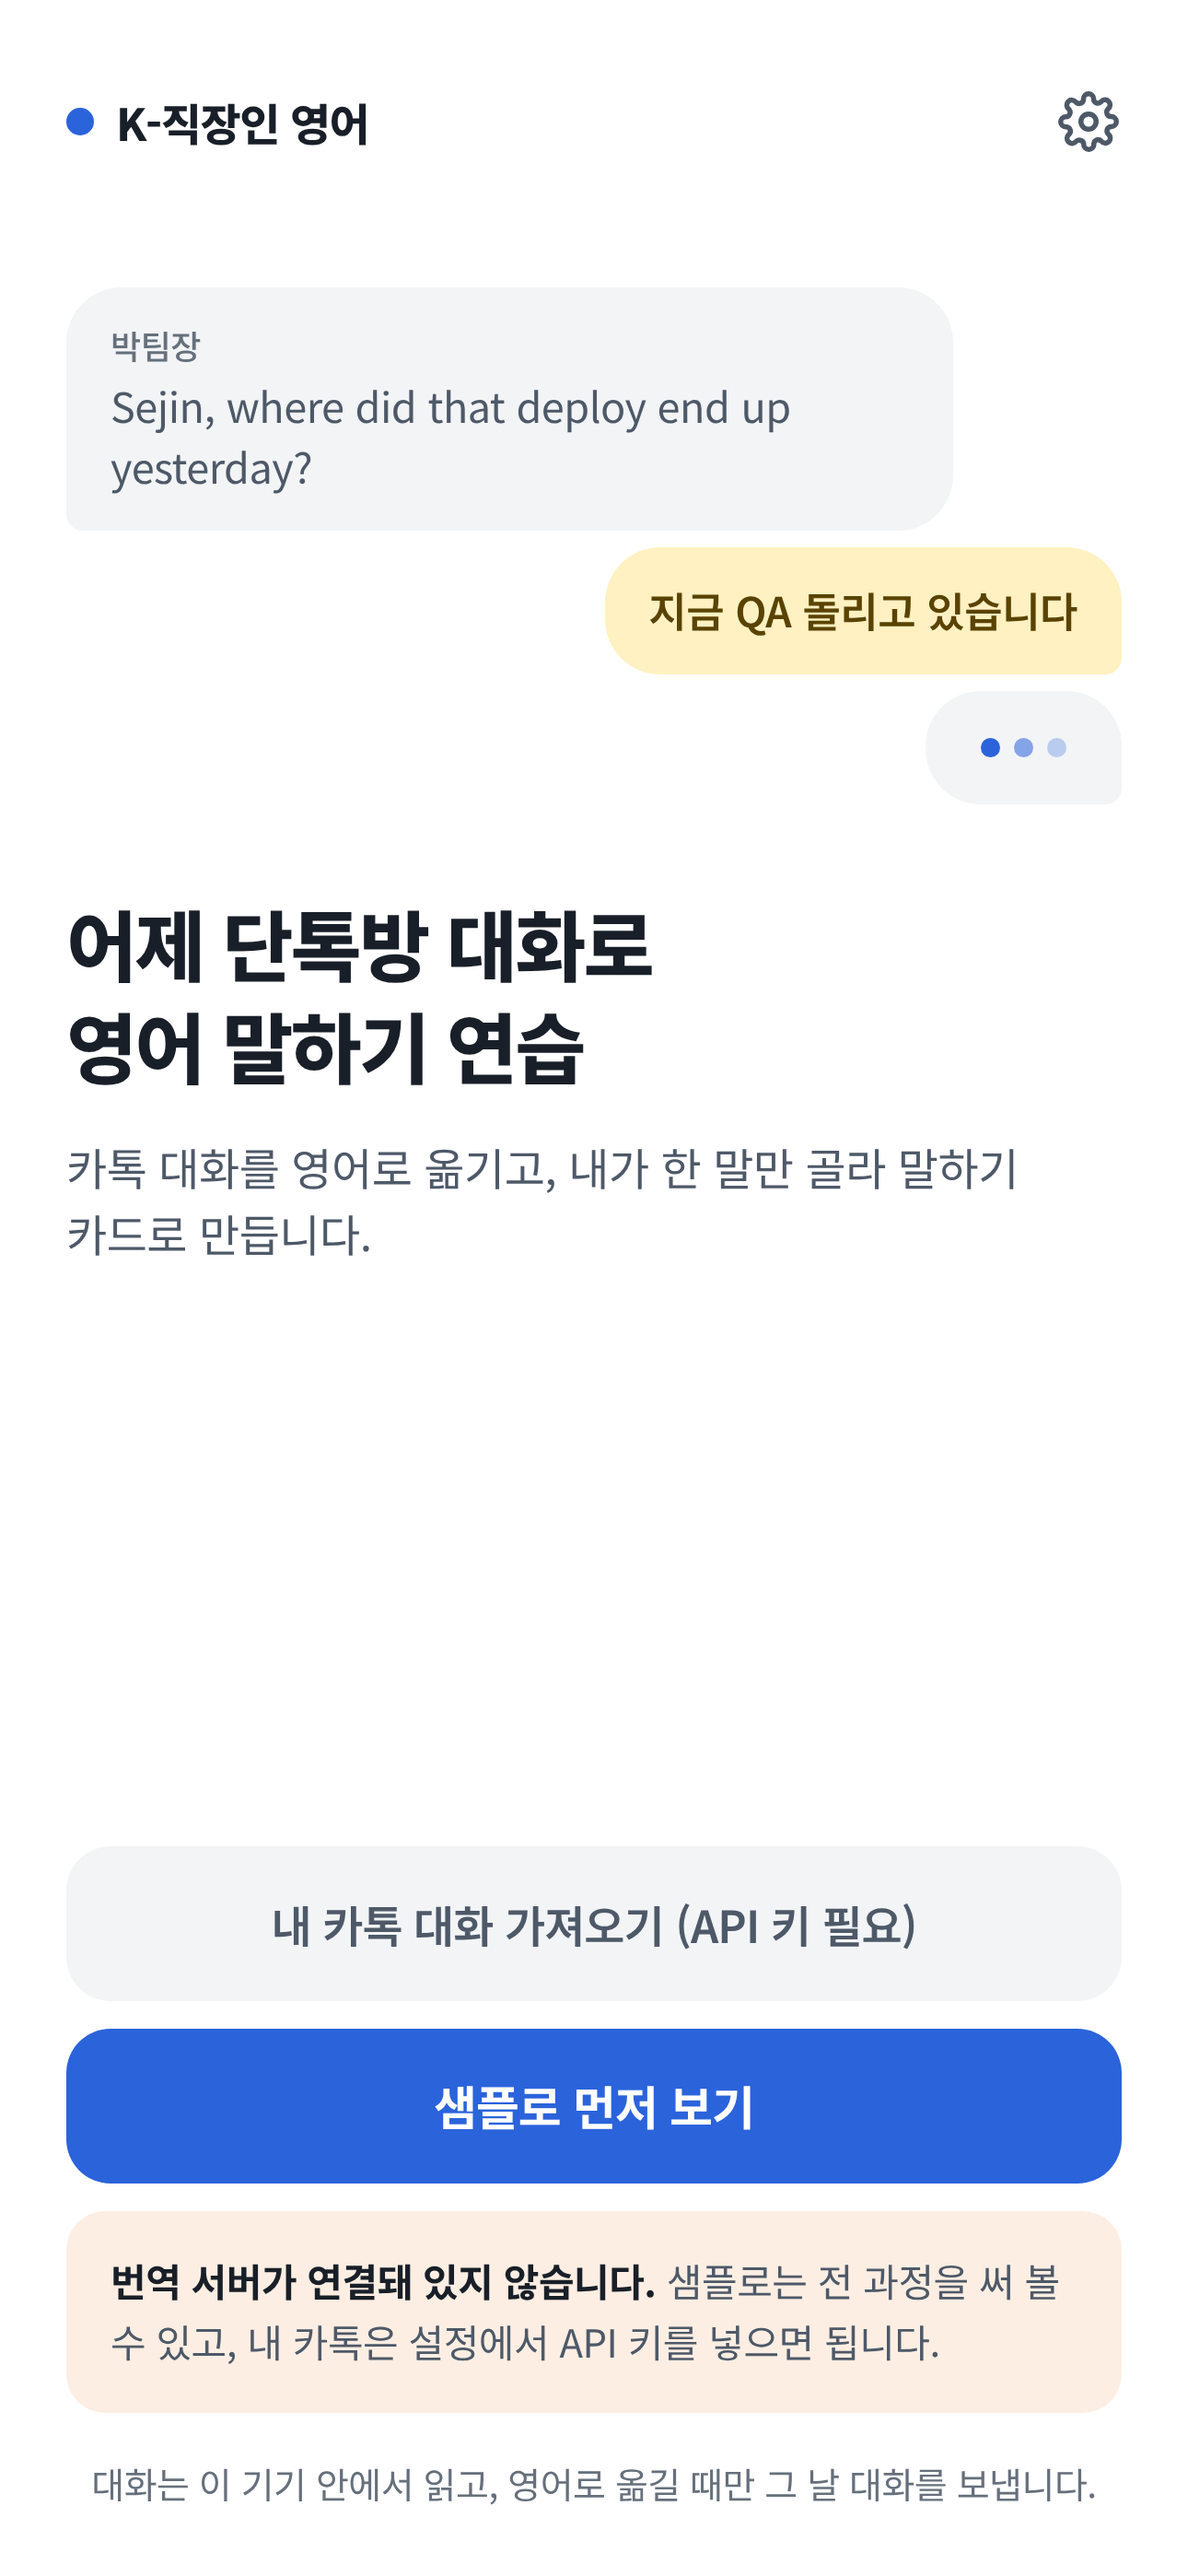
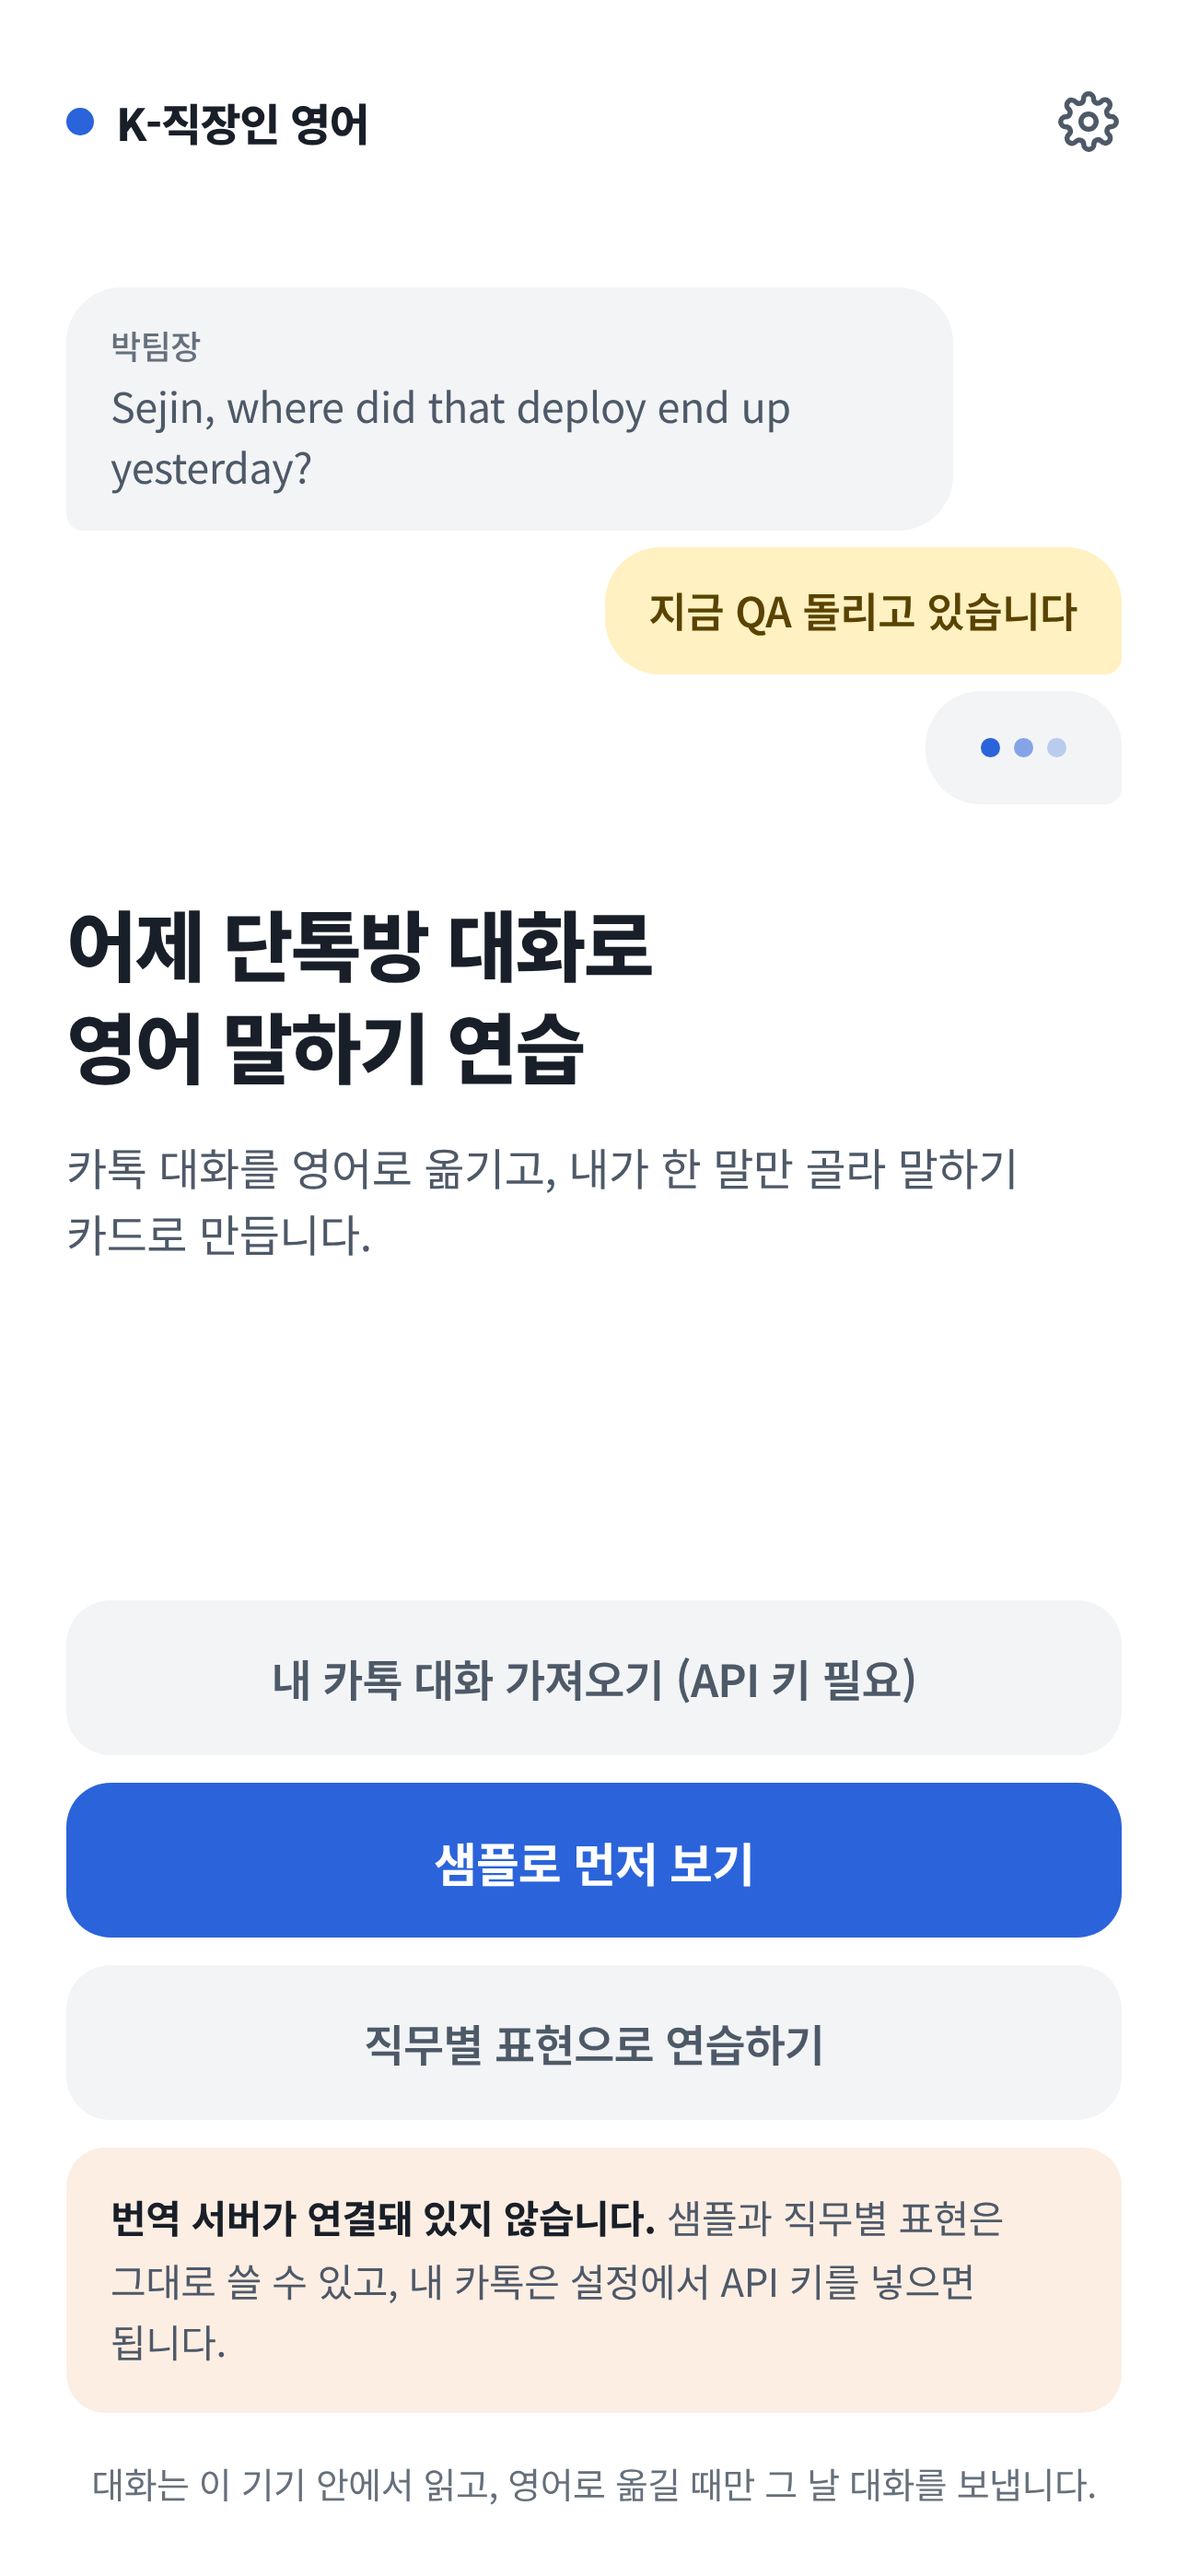
Bring back the job decks
Narrowing the app to its two features (D20) took the job decks off the
screen, and with no translation server the sample became the only thing a
visitor could do. Someone using the new build read that, fairly, as "it
does less than before". The decks were also the one path that runs with no
server, so they are what a tester or a Play reviewer can actually use.

They come back as a secondary button on the first screen, not as the
first-run job picker they used to be. Five decks of forty, ten cards a
session, what FSRS says is due first and unseen cards after. Each deck
keeps its own progress next to, not inside, the days of my chat: a job card
has no transcript and must never show up in one. The deck is rebuilt from
the shipped data on every open, so a corrected sentence in a later version
reaches people who already started it, progress kept.

The practice screen, scoring, speech and FSRS are shared; only where a card
comes from and what the done screen offers differ. job-decks.js joins the
service worker's shell so the decks work offline too.

Recorded as D26, with the PRD's "what dropping the decks cost" section kept
as history. The store description gains a paragraph for them.

Claude-Session: https://claude.ai/code/session_01DYwDMLoZ7g9WdK6CTYFrUa

diff --git a/app/js/main.js b/app/js/main.js
@@ -2,6 +2,7 @@ import { parseKakaoExport, groupByDay, cardsForSpeaker, speakersIn, guessRoomTyp
 import { newCardState, review, isDue, isLearned, dueLabel } from './srs.js';
 import { createSwipeDeck } from './swipe.js';
 import * as T from './translate.js';
+import { JOB_DECKS } from './job-decks.js';
 import { isNative, platform, onSharedChatExport, createRecogniser, createSpeaker } from './platform.js';
 
 /* The sample ships with English written in, so the whole loop — the transcript,
@@ -56,9 +57,11 @@ const STORE = 'rte.v4';
 const $ = (id) => document.getElementById(id);
 const esc = (s) => String(s).replace(/[&<>"]/g, (c) => ({ '&': '&amp;', '<': '&lt;', '>': '&gt;', '"': '&quot;' }[c]));
 
-let state = { me: null, roomTitle: null, days: [], usingSample: false };
+let state = { me: null, roomTitle: null, days: [], usingSample: false, jobs: {} };
 let parsed = null;
 let activeDay = null;
+// Set while practising a job deck instead of a day of my own chat.
+let activeJob = null;
 let deck = null;
 let sessionDone = 0;
 let sessionTotal = 0;
@@ -85,6 +88,7 @@ function load() {
 $('go-import').addEventListener('click', () => show('import'));
 $('go-resume').addEventListener('click', () => { renderDays(); show('days'); });
 $('home-sample').addEventListener('click', () => ingest(SAMPLE_TXT, true));
+$('go-jobs').addEventListener('click', () => { renderJobs(); show('jobs'); });
 
 /* The home screen has to tell the truth about what this copy of the app can
    do. On a build with no translation provider — the public link, before the
@@ -309,6 +313,76 @@ async function build(day) {
   renderTranscript();
 }
 
+/* ══════ job decks ══════ */
+/* Written cards for common office situations, shipped with the app (D26
+   reverses D20). They are the one thing that works with no translation
+   server at all, so a tester or a reviewer who never imports a chat still has
+   something real to practise. Each deck keeps its own FSRS state, separate
+   from the days of my chat: the two are different sources, and a job card is
+   never mixed into a day's transcript. */
+const JOB_SESSION = 10;
+
+function jobDeck(id) {
+  const src = JOB_DECKS.find((d) => d.id === id);
+  if (!state.jobs) state.jobs = {};
+  const kept = new Map(((state.jobs[id] && state.jobs[id].cards) || []).map((c) => [c.id, c.srs]));
+  // Rebuilt from the shipped data every time, so a corrected sentence in a new
+  // version reaches people who already started the deck, with their progress.
+  state.jobs[id] = {
+    cards: src.cards.map((c, i) => ({
+      id: `${id}:${i}`, ko: c.ko, en: c.en, situation: c.situation,
+      context: (c.context || []).map((x) => ({ speaker: x.speaker, ko: x.text })),
+      srs: kept.get(`${id}:${i}`) || newCardState(),
+    })),
+  };
+  return state.jobs[id];
+}
+
+function jobProgress(id) {
+  const cards = (state.jobs && state.jobs[id] && state.jobs[id].cards) || [];
+  const learned = cards.filter((c) => isLearned(c.srs)).length;
+  const started = cards.some((c) => c.srs.reps > 0);
+  return { learned, started };
+}
+
+function renderJobs() {
+  $('job-list').innerHTML = JOB_DECKS.map((d) => {
+    const { learned, started } = jobProgress(d.id);
+    const st = learned === d.cards.length ? 'done' : started ? 'ready' : 'new';
+    const label = st === 'done' ? '다 익힘' : started ? `${learned}장 익힘` : d.blurb;
+    return `<button class="day ${st}" data-job="${esc(d.id)}">
+      <span class="when"><b>${esc(d.name)}</b><span>${esc(label)}</span></span>
+      <span class="n">${d.cards.length}장</span>
+    </button>`;
+  }).join('');
+  for (const b of $('job-list').querySelectorAll('.day')) {
+    b.addEventListener('click', () => startJob(b.dataset.job));
+  }
+}
+
+$('back-jobs').addEventListener('click', () => { refreshHome(); show('home'); });
+
+/** Ten at a time: what FSRS says is due first, then cards not seen yet. */
+function startJob(id) {
+  const deckState = jobDeck(id);
+  activeJob = id;
+  activeDay = null;
+  const due = [], fresh = [];
+  deckState.cards.forEach((c, i) => {
+    if (c.srs.reps === 0) fresh.push({ job: id, i, review: false });
+    else if (isDue(c.srs)) due.push({ job: id, i, review: true });
+  });
+  const items = [...due, ...fresh].slice(0, JOB_SESSION);
+  save();
+  if (!items.length) { sessionDone = 0; finish(); return; }
+  sessionTotal = items.length;
+  sessionDone = 0;
+  show('practice');
+  deck.load(items);
+  updateProgress();
+  deck.focus();
+}
+
 /* ══════ transcript — the conversation, in English ══════ */
 /* This is the app's first feature standing on its own: yesterday's group chat,
    readable end to end in English. It is also where I say which one is me, which
@@ -387,6 +461,7 @@ $('go-practice').addEventListener('click', () => {
 deck = createSwipeDeck($('deck'), { render: renderCard, onSwipe, onEmpty: finish });
 
 function startSession() {
+  activeJob = null;
   const day = state.days[activeDay];
   const main = day.cards.map((_, i) => ({ d: activeDay, i, review: false }));
 
@@ -407,7 +482,7 @@ function startSession() {
   deck.focus();
 }
 
-const cardAt = (ref) => state.days[ref.d].cards[ref.i];
+const cardAt = (ref) => (ref.job ? state.jobs[ref.job].cards[ref.i] : state.days[ref.d].cards[ref.i]);
 
 function renderCard(body, ref) {
   const c = cardAt(ref);
@@ -493,6 +568,9 @@ function finish() {
   stopListening();
   speaker.stop();
   save();
+  if (activeJob) return finishJob();
+  for (const id of ['see-transcript', 'pick-day', 'restart']) $(id).classList.remove('hide');
+  $('more-jobs').classList.add('hide');
   const day = state.days[activeDay];
   const left = state.days.findIndex((d, i) => i !== activeDay && dayStatus(d) !== 'done');
   const learned = day && day.cards ? day.cards.filter((c) => isLearned(c.srs)).length : 0;
@@ -518,6 +596,31 @@ function finish() {
   show('done');
 }
 
+function finishJob() {
+  const src = JOB_DECKS.find((d) => d.id === activeJob);
+  const cards = state.jobs[activeJob].cards;
+  const learned = cards.filter((c) => isLearned(c.srs)).length;
+  const waiting = cards.filter((c) => c.srs.reps === 0 || isDue(c.srs)).length;
+
+  $('done-eyebrow').textContent = src.name;
+  $('done-title').textContent = sessionDone > 0 ? '10장 끝' : waiting ? '세션 종료' : '지금은 복습할 카드가 없습니다';
+  $('done-stats').innerHTML = [
+    ['외운 카드', sessionDone],
+    ['이 덱 익힘', `${learned}/${cards.length}`],
+  ].map(([k, v]) => `<div class="stat"><b>${v}</b><span>${k}</span></div>`).join('');
+  $('done-sub').textContent = waiting
+    ? '왼쪽으로 넘긴 카드는 더 자주 돌아옵니다.'
+    : `다음 복습은 ${dueLabel(cards[0].srs)}. 다른 직무도 해 보세요.`;
+
+  $('next-day').classList.toggle('hide', !waiting);
+  $('next-day').textContent = '10장 더 하기';
+  $('next-day').onclick = () => startJob(activeJob);
+  for (const id of ['see-transcript', 'pick-day', 'restart']) $(id).classList.add('hide');
+  $('more-jobs').classList.remove('hide');
+  show('done');
+}
+
+$('more-jobs').addEventListener('click', () => { renderJobs(); show('jobs'); });
 $('see-transcript').addEventListener('click', () => renderTranscript());
 $('pick-day').addEventListener('click', () => { renderDays(); show('days'); });
 $('restart').addEventListener('click', () => { paste.value = ''; $('go-parse').disabled = true; show('import'); });
@@ -605,9 +708,10 @@ function openSettings() {
   $('model').innerHTML = T.MODELS
     .map((m) => `<option value="${m.id}" ${m.id === T.getModel() ? 'selected' : ''}>${m.label}</option>`).join('');
   const cards = state.days.reduce((a, d) => a + (d.cards.length || 0), 0);
-  $('data-state').textContent = state.days.length
+  const jobsStarted = JOB_DECKS.filter((d) => jobProgress(d.id).started).length;
+  $('data-state').textContent = (state.days.length
     ? `${state.days.length}일치 대화와 카드 ${cards}개가 이 브라우저에 저장돼 있습니다.`
-    : '저장된 대화가 없습니다.';
+    : '저장된 대화가 없습니다.') + (jobsStarted ? ` 직무별 표현 ${jobsStarted}개 덱의 진도도 있습니다.` : '');
   show('settings');
 }
 
@@ -619,7 +723,7 @@ $('save-key').addEventListener('click', () => {
 
 $('wipe').addEventListener('click', () => {
   if (!confirm('저장된 대화와 진도를 모두 지웁니다. 되돌릴 수 없습니다.')) return;
-  state = { me: null, roomTitle: null, days: [], usingSample: false };
+  state = { me: null, roomTitle: null, days: [], usingSample: false, jobs: {} };
   try { localStorage.removeItem(STORE); } catch { /* private mode */ }
   parsed = null;
   refreshHome();

diff --git a/app/index.html b/app/index.html
@@ -42,7 +42,8 @@
       <button class="btn wide" id="go-import">내 카톡 대화 가져오기</button>
       <button class="btn wide" id="go-resume">이어서 하기</button>
       <button class="btn ghost wide" id="home-sample">샘플로 먼저 보기</button>
-      <div class="note warn hide" id="home-note"><b>번역 서버가 연결돼 있지 않습니다.</b> 샘플로는 전 과정을 써 볼 수 있고, 내 카톡은 설정에서 API 키를 넣으면 됩니다.</div>
+      <button class="btn ghost wide" id="go-jobs">직무별 표현으로 연습하기</button>
+      <div class="note warn hide" id="home-note"><b>번역 서버가 연결돼 있지 않습니다.</b> 샘플과 직무별 표현은 그대로 쓸 수 있고, 내 카톡은 설정에서 API 키를 넣으면 됩니다.</div>
       <p class="fine">대화는 이 기기 안에서 읽고, 영어로 옮길 때만 그 날 대화를 보냅니다.</p>
     </div>
   </section>
@@ -117,6 +118,18 @@
     </div>
   </section>
 
+  <!-- ══════ JOB DECKS — 번역 없이 바로 쓰는 직무별 표현 ══════ -->
+  <section class="screen" id="s-jobs">
+    <div class="topbar">
+      <button class="iconbtn" id="back-jobs" aria-label="뒤로"><svg viewBox="0 0 24 24" width="19" height="19" fill="none" stroke="currentColor" stroke-width="2.4" stroke-linecap="round" stroke-linejoin="round"><path d="M15 18l-6-6 6-6"/></svg></button>
+      <h2>직무별 표현</h2>
+    </div>
+    <div class="stack" style="gap:16px; min-height:0">
+      <p class="small" id="jobs-sub">회사에서 매일 쓰는 말 200장. 내 카톡 없이도 바로 연습할 수 있습니다.</p>
+      <div class="days" id="job-list"></div>
+    </div>
+  </section>
+
   <!-- ══════ TRANSCRIPT — 영어로 옮겨진 대화 ══════ -->
   <section class="screen" id="s-transcript">
     <div class="topbar">
@@ -175,6 +188,7 @@
         <button class="btn ghost wide" id="see-transcript">이 날 영어 대화록 다시 보기</button>
         <button class="btn ghost wide" id="pick-day">날짜 목록</button>
         <button class="btn ghost wide" id="restart">다른 대화 넣기</button>
+        <button class="btn ghost wide hide" id="more-jobs">다른 직무 고르기</button>
       </div>
     </div>
   </section>

diff --git a/app/sw.js b/app/sw.js
@@ -30,6 +30,7 @@ const SHELL = [
   './js/srs.js',
   './js/swipe.js',
   './js/translate.js',
+  './js/job-decks.js',
   './js/platform.js',
   './vendor/ts-fsrs.mjs',
   './icons/icon-192.png',

diff --git a/docs/decisions.md b/docs/decisions.md
@@ -40,6 +40,7 @@
 | D23 | 앱 ID는 **com.ksj11167.kofficeenglish** | 옛 이름 realtalkenglish를 버렸다. 출시 후에는 영원히 못 바꾸므로 출시 전인 지금 정리 |
 | D24 | 영어 문장 **읽어주기** | 테스터 요청. 앱은 사람에게 한 번도 들어본 적 없는 문장을 말하라고 시킨다. 눈으로 읽으면 단어는 알아도 소리의 모양은 모른다. `speechSynthesis`라 웹·PWA·WebView 전부에서 되고 플러그인이 필요 없다 |
 | D25 | PWA도 **공유 대상**으로 등록 | 테스터 요청 — 매번 내보내기가 번거롭다. 네이티브 셸은 이미 공유시트로 받고 있었지만 설치형 PWA는 못 받았다. Android에서 웹으로 쓰는 사람에게는 이게 유일한 개선 경로다. **iOS Safari는 여전히 불가** |
+| D26 | 직무별 표현 덱을 **다시 넣음** (D20 되돌림) | 화면을 줄이고 나니 번역 서버 없이 할 수 있는 게 샘플 하나뿐이라, 써 본 사람이 "기능이 적어졌다"고 느꼈다. 직무 덱은 서버 없이 도는 유일한 기능이라 테스터와 Play 심사자에게 실제로 써 볼 거리가 된다. 첫 화면의 보조 버튼 하나로 들어가고, 진도(FSRS)는 내 대화 날짜와 따로 저장해서 대화록과 섞이지 않는다. 한 번에 10장, 복습할 카드 먼저 |
 
 ### 배제한 것
 

diff --git a/store/listing.md b/store/listing.md
@@ -65,6 +65,10 @@
 > 마이크를 누르고 영어로 말하면 얼마나 맞았는지, 어떤 단어가 빠졌는지
 > 알려줍니다. 음성은 기기 안에서 처리됩니다.
 >
+> ■ 카톡 없이도 바로: 직무별 표현 200장
+> 공통, 개발, 영업·세일즈, 기획·PM, 디자인. 회사에서 매일 쓰는 말을 직무별로
+> 40장씩 담았습니다. 대화를 불러오지 않아도 오늘 바로 연습할 수 있습니다.
+>
 > ■ 대화는 기기를 떠나지 않습니다
 > 파일은 어디에도 업로드되지 않습니다. 영어로 옮기는 그 순간에만 해당 날짜의
 > 대화가 전송되고, 서버에 저장되지 않습니다. 회원가입이 없고, 광고와 분석
